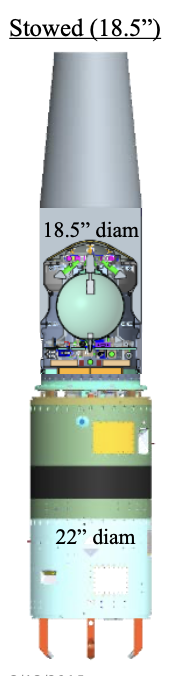
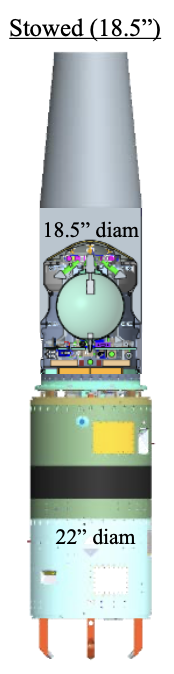
fix(thesis): correct the alt text on Figures 3.7 and 4.10 and unclip Fig 3.7
Both defects came from alt text that had been copy-pasted between figures
instead of being written from the artwork.

- fig:stowed_deployed (figures/Spec1.png) carried the alt text of a
  different figure: "Geometric specification view showing the half-cone angle
  and nose cap dimensions of the HIAD". The artwork is headed "Stowed
  (18.5")" and shows the HIAD packed inside its launch vehicle, so the
  existing caption ("Launch configuration of the HIAD system, showing the
  stowed constraint") was correct and the alt text was wrong. The alt text
  now describes the stowed pack, the 18.5 inch and 22 inch diameter labels,
  the spherical payload and the three landing legs.
- fig:ccd_surface (figures/bo_ccd_design.png) had the bare alt text "Scatter
  plot of the Bayesian optimisation central-composite design samples in the
  geometry design space", which omitted that the markers are coloured by the
  evaluated cost on a log scale, the 8 factorial + centre + 6 axial layout,
  and the reference markers. Cross-checked against ccd_samples in
  src/python/hiad_optimization_results.json: 15 entries, centre at
  R_N = 1.5, r_tor = 0.140, half-cone 60 deg, factorial levels 1.2/1.8,
  0.10/0.18, 55/65 deg, costs 1.9959 to 38.8332. The existing caption is
  accurate and is retained; the alt text is brought up to it and now also
  records that the panel is a design layout, not a fitted response surface.
  The caption is extended to name the round-1 BO optimum marker, which the
[…]

diff --git a/Lost+Found/ProgressReport/CurrentThesisFinalReport/chapter_04_results.tex b/Lost+Found/ProgressReport/CurrentThesisFinalReport/chapter_04_results.tex
@@ -291,10 +291,10 @@ The design space is explored in two recorded stages preceded by a separate scree
 
 \begin{figure}[H]
     \centering
-    \BeginAccSupp{method=escape,ActualText={Scatter plot of the Bayesian optimisation central-composite design samples in the geometry design space.}}%
+    \BeginAccSupp{method=escape,ActualText={Three-dimensional scatter of the 15 central composite screen points in the design space of nose radius R N, torus radius r tor and half-cone angle theta c, each marker coloured by its evaluated cost J of x on a logarithmic scale running from about 2 to about 38. The points are the 8 factorial combinations of the low and high levels 1.2 and 1.8 metres in nose radius, 0.10 and 0.18 metres in torus radius and 55 and 65 degrees in half-cone angle; the design centre at 1.5 metres, 0.140 metres and 60 degrees; and 6 axial points stepping one factor at a time away from the centre. Reference markers named in the key are the screen design centre, the IRVE-3 baseline, the best-screened factorial point and the round-1 Bayesian optimisation optimum. The panel is a design layout annotated with measured costs and is not a fitted response surface.}}%
 \includegraphics[width=0.75\textwidth]{figures/bo_ccd_design.png}%
 \EndAccSupp{}%
-    \caption{Central composite screen evaluated in the three-dimensional design space, coloured by the evaluated cost $J(\mathbf{x})$ on a logarithmic scale (official run 2026-09-26). The 15 screen points comprise 8 factorial points, the design centre ($R_N = 1.5$\,m, $r_{tor} = 0.140$\,m, $\theta_c = 60^\circ$), and 6 axial points; the IRVE-3 baseline and the best-screened point of this screen are marked for reference. This is a design layout annotated with measured costs, not a fitted response surface.}
+    \caption{Central composite screen evaluated in the three-dimensional design space, coloured by the evaluated cost $J(\mathbf{x})$ on a logarithmic scale (official run 2026-09-26). The 15 screen points comprise 8 factorial points, the design centre ($R_N = 1.5$\,m, $r_{tor} = 0.140$\,m, $\theta_c = 60^\circ$), and 6 axial points; the screen design centre, the IRVE-3 baseline, the best-screened point of this screen and the round-1 Bayesian-optimisation optimum are all marked and identified in the panel key. This is a design layout annotated with measured costs, not a fitted response surface.}
     \label{fig:ccd_surface}
 \end{figure}
 

diff --git a/Lost+Found/ProgressReport/CurrentThesisFinalReport/chapter_03_methodology.tex b/Lost+Found/ProgressReport/CurrentThesisFinalReport/chapter_03_methodology.tex
@@ -238,7 +238,7 @@ The two configurations established for this study -- \textbf{Configuration A (Sc
 
 \begin{figure}[H]
     \centering
-    \BeginAccSupp{method=escape,ActualText={Geometric specification view showing the half-cone angle and nose cap dimensions of the HIAD.}}%
+    \BeginAccSupp{method=escape,ActualText={Cutaway of the HIAD in its stowed launch configuration inside the launch vehicle, headed Stowed with a quoted 18.5 inch diameter. A long tapered stowed pack sits above the vehicle internals, which include a pale green spherical payload and stacked avionics and battery boxes; below them a green upper stage band and a pale blue lower stage are labelled 22 inch diameter, and three orange landing legs extend downward from the lower stage.}}%
 \includegraphics[width=0.35\textwidth]{figures/Spec1.png}%
 \EndAccSupp{}%
     \caption{Launch configuration of the HIAD system, showing the stowed constraint.}
